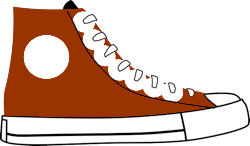
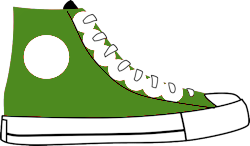
Address comments on developing examples
As discussed in [EO meeting of 14
August](http://www.w3.org/2015/08/14-eo-minutes.html#item04)

* Swapped order of mark-up examples
* Changed caption for basic html example
* Changed colour of trainer
* Changed labels for product example to be more in keeping with other
examples
* Removed date field example
* Changed phone number validation example to Australian example with a
simpler description

diff --git a/source/developing.html.erb.md b/source/developing.html.erb.md
@@ -117,18 +117,7 @@ Use structural elements to mark-up headings, lists, tables, etc. HTML5 provides 
 
 <div class="mark-up">
   <figure>
-    <figcaption>Search field using <abbr>WAI-ARIA</abbr></figcaption>
-    <% html_example do %>
-    <form action="" role="search">
-      <label for="search">Search</label>
-      <input type="search" aria-describedby="search-help">
-      <div id="search-help">Search records by customer id or name</div>
-      <input type="submit" value="Go">
-    </form>
-    <% end %>
-  </figure>
-  <figure>
-    <figcaption>HTML5 elements provide additional meaning and structure</figcaption>
+    <figcaption>Basic HTML adds structure to content; HTML5 elements provide additional meaning</figcaption>
     <% html_example do %>
     <section>
       <article>
@@ -144,6 +133,17 @@ Use structural elements to mark-up headings, lists, tables, etc. HTML5 provides 
         </aside>
       </article>
     </section>
+    <% end %>
+  </figure>
+  <figure>
+    <figcaption>Search field using <abbr>WAI-ARIA</abbr></figcaption>
+    <% html_example do %>
+    <form action="" role="search">
+      <label for="search">Search</label>
+      <input type="search" aria-describedby="search-help">
+      <div id="search-help">Search records by customer id or name</div>
+      <input type="submit" value="Go">
+    </form>
     <% end %>
   </figure>
 </div>
@@ -185,6 +185,7 @@ Be as forgiving of format as possible when processing user input. For example, a
 <%= example :start, :plural %>
 
 <div class="avoid-mistakes">
+  @@@Remove date example and use less nerdy phone example@@@
   <figure>
     <figcaption>Date field with formatting instructions</figcaption>
     <% html_example do %>
@@ -239,17 +240,17 @@ Ensure that the order of elements in the code matches the logical order of the i
 
 <div class="order">
   <figure>
-    <figcaption>Product presentation</figcaption>
+    <figcaption>Two approaches to coding presentation of a product</figcaption>
     <div>
       <article class="product">
         <h3 class="name">Space trainers</h3>
-        <img src="images/trainer.png" alt="Red high top trainer with white laces, empty white dot on outside ankle, and white toe cap">
+        <img src="images/trainer.png" alt="Green high top trainer with white laces, empty white dot on outside ankle, and white toe cap">
         <p class="desc">Space trainer for a classic and stylish look.</p>
         <p class="buy"><a href="javascript:return false"><i class="fa fa-cart-plus"></i> Add to cart</a></p>
       </article>
       <div class="two-column">
         <div class="fail">
-          <p><b>Approach 1:</b> Code order matches visual presentation, but is not logical.</p>
+          <p><b>Code order does not reflect reading order:</b> Order matches visual presentation, but is not logical.</p>
           <% code('html') do %>
 <img src="images/trainer.png" alt="...">
 <h3>Space trainers</h3>
@@ -258,7 +259,7 @@ Ensure that the order of elements in the code matches the logical order of the i
           <% end %>
         </div>
         <div class="pass">
-          <p><b>Approach 2:</b> Product title is logically viewed first, so presented first in code.</p>
+          <p><b>Code order reflects reading order:</b> Product title is logically viewed first, so presented first in code.</p>
           <% code('html') do %>
 <h3>Space trainers</h3>
 <img src="images/trainer.png" alt="...">
